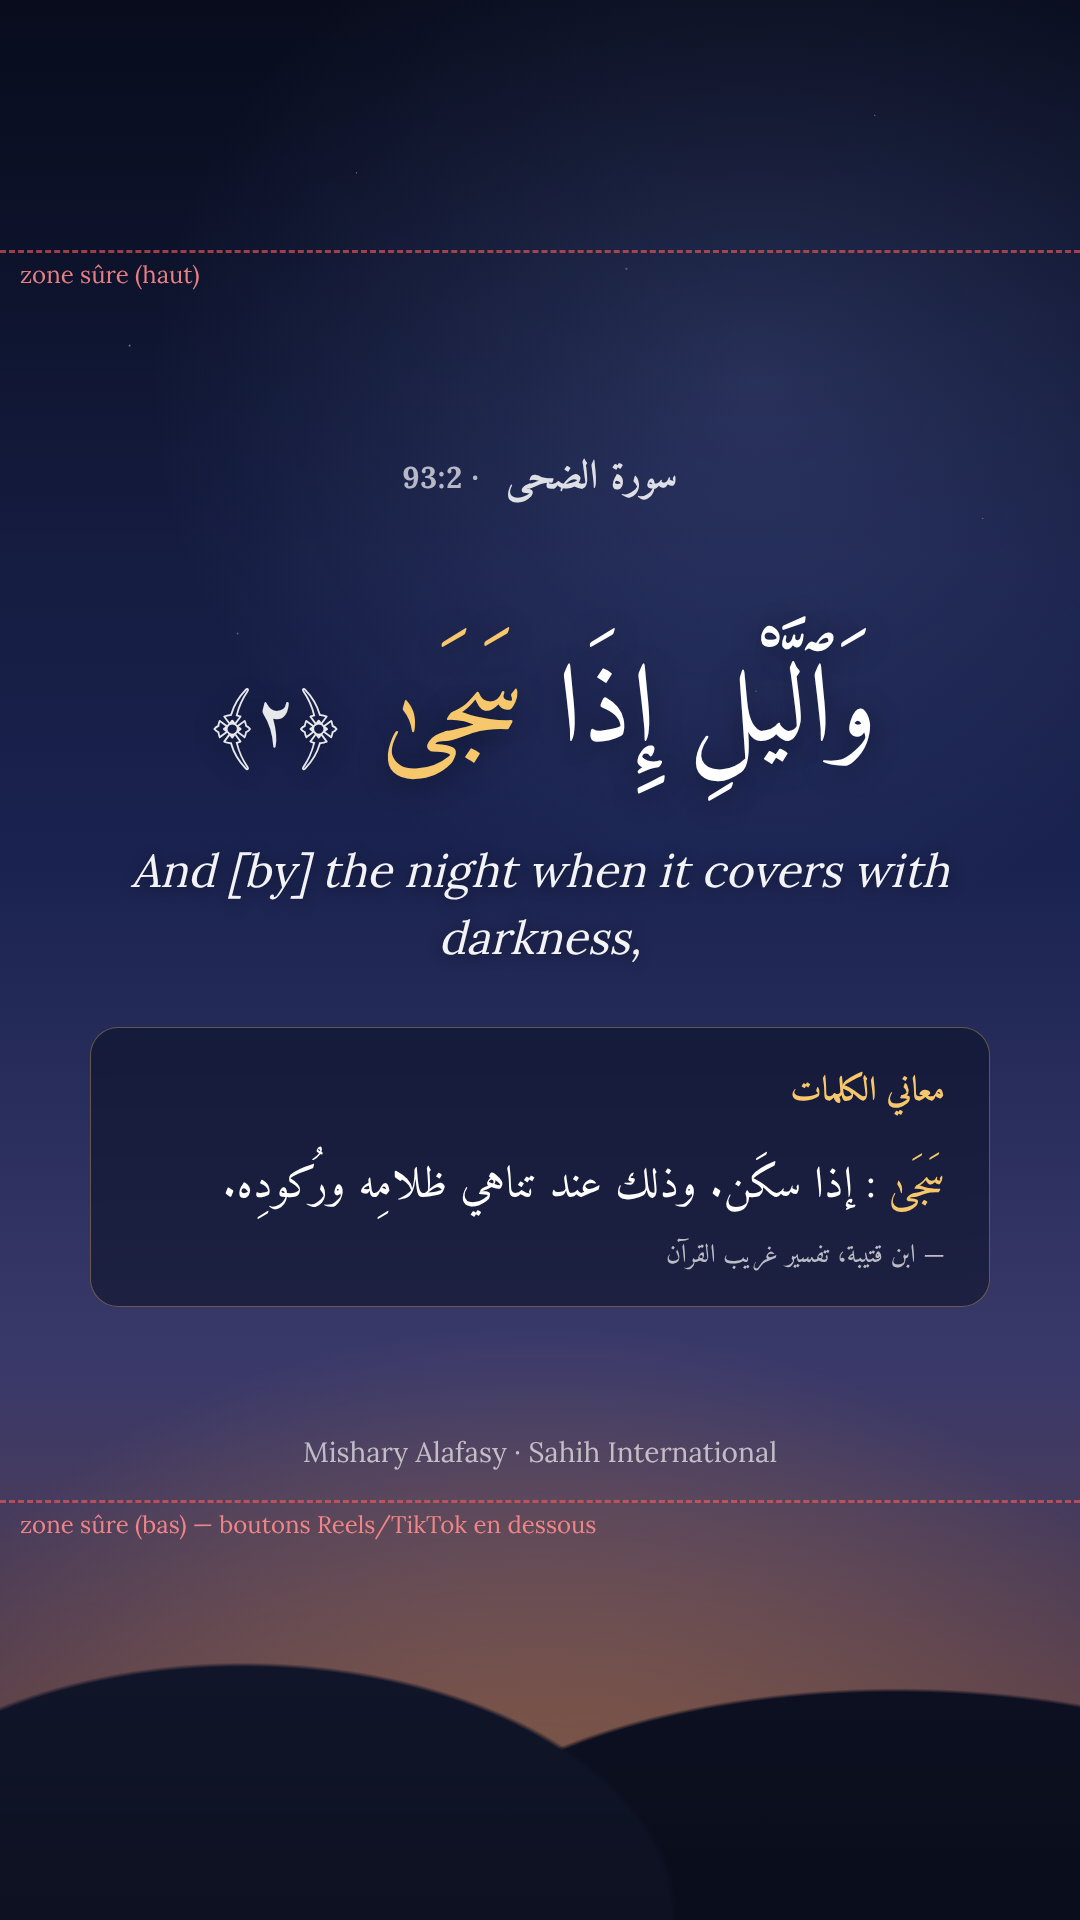
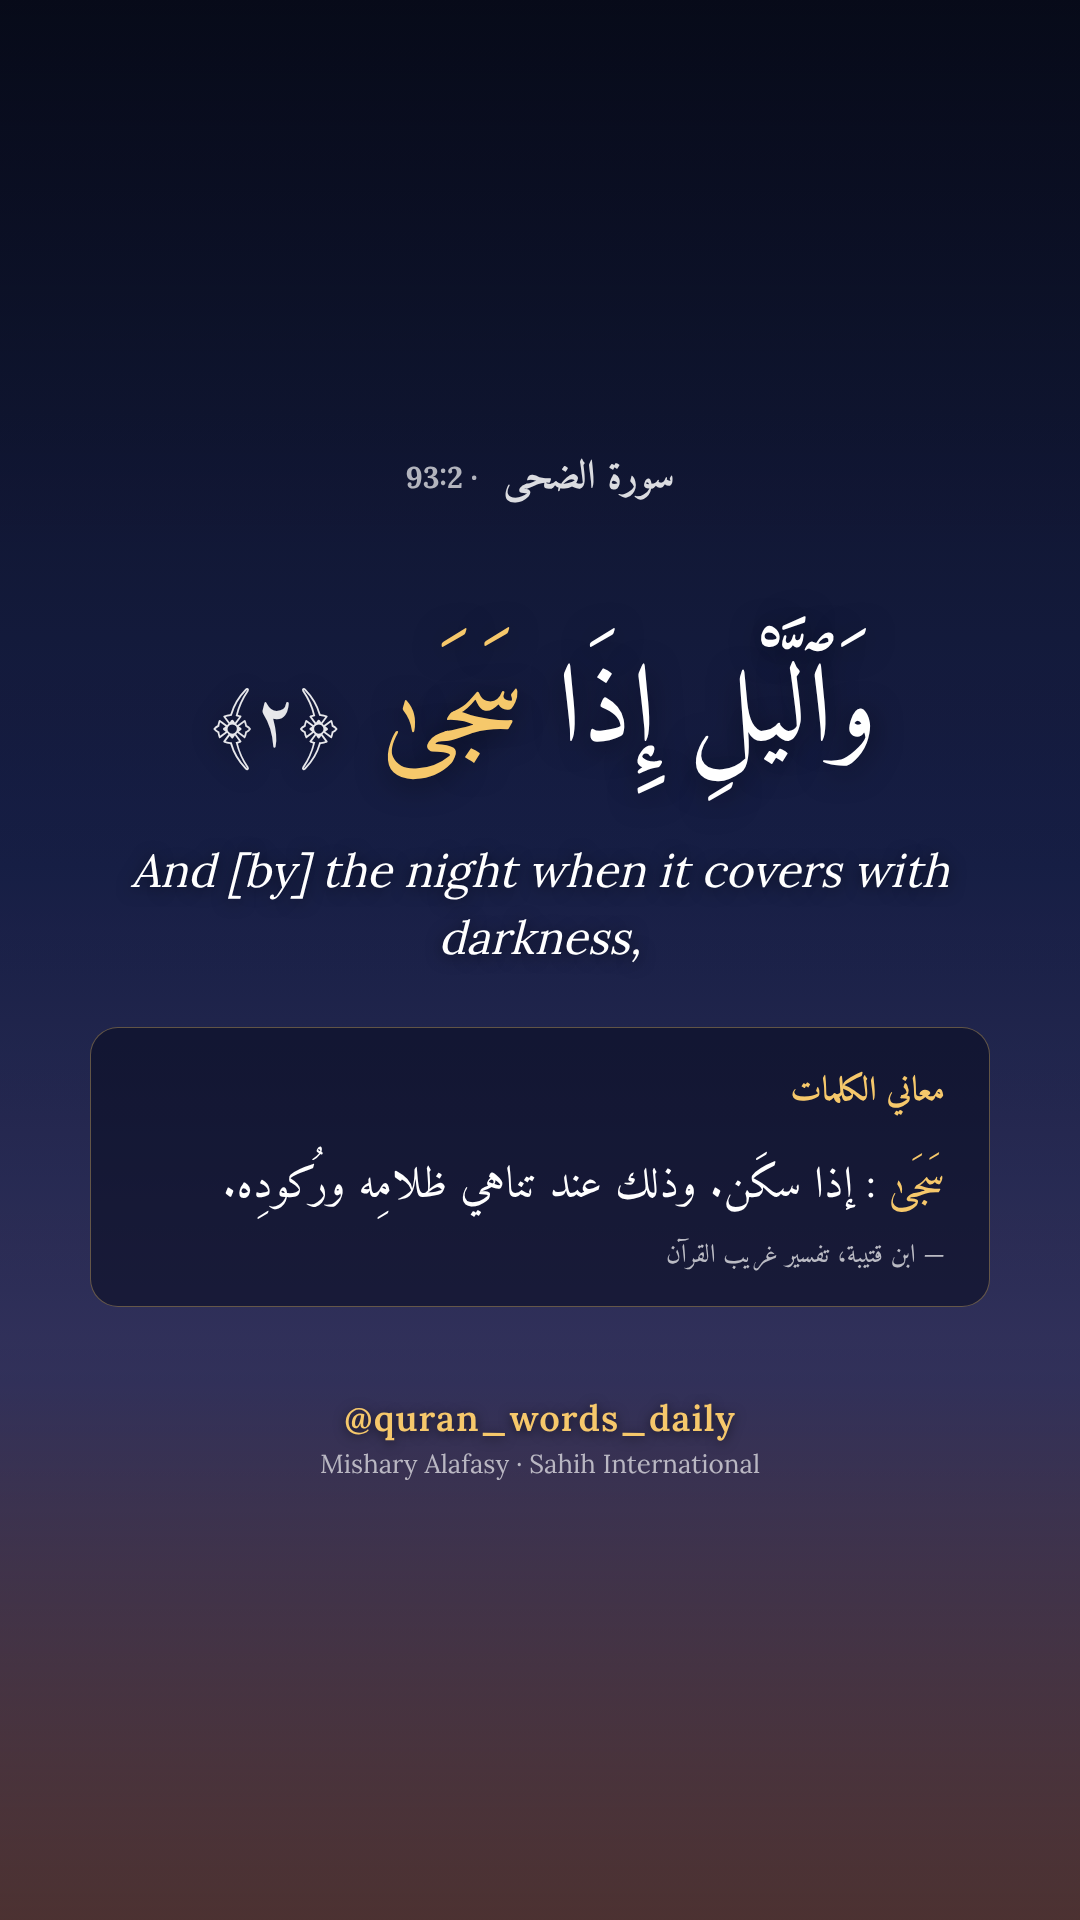
Show the page handle @quran_words_daily on every frame
Configurable via video.handle in config/project.yaml; placed above the
credits, inside the safe area so platform buttons never cover it.

Claude-Session: https://claude.ai/code/session_019MTSqBqYPBJEV8kq3tBKRu

diff --git a/CLAUDE.md b/CLAUDE.md
@@ -19,12 +19,14 @@ e-mail du projet `quranwordsdaily@gmail.com`. Le propriétaire travaille depuis 
 | Fond | vidéos nature libres (Pexels/Pixabay), **sans personnes ni animaux** |
 | Exécution | GitHub Actions (dépôt public → gratuit), migrable sur le homelab (Docker) |
 | Comptes pro | Page Facebook + Instagram en type **Créateur**, reliés |
+| Signature | **@quran_words_daily** sur chaque image, dans la zone sûre (repartages) |
 
 ## Règles de contenu (non négociables)
 
 1. **Aucun texte coranique, traduction ou explication n'est généré par une IA.** Tout vient de
    sources publiées, référencées par identifiant d'édition, et se vérifie.
-2. Chaque vidéo crédite le récitateur, la traduction et la source des gloses.
+2. Chaque vidéo crédite le récitateur, la traduction et la source des gloses, et porte la
+   signature de la page (`video.handle`).
 3. L'IA intervient seulement en amont (préparer le calendrier des passages et les séries) et,
    plus tard en option, pour les légendes. Le pipeline quotidien reste **déterministe**.
 4. On ne coupe jamais un passage au milieu d'une phrase. Découpage candidat : regroupements
